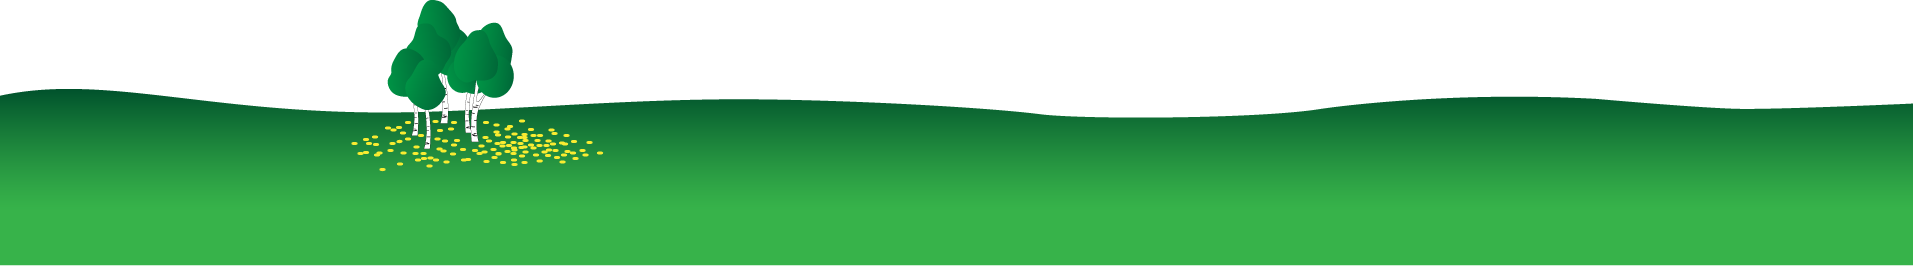
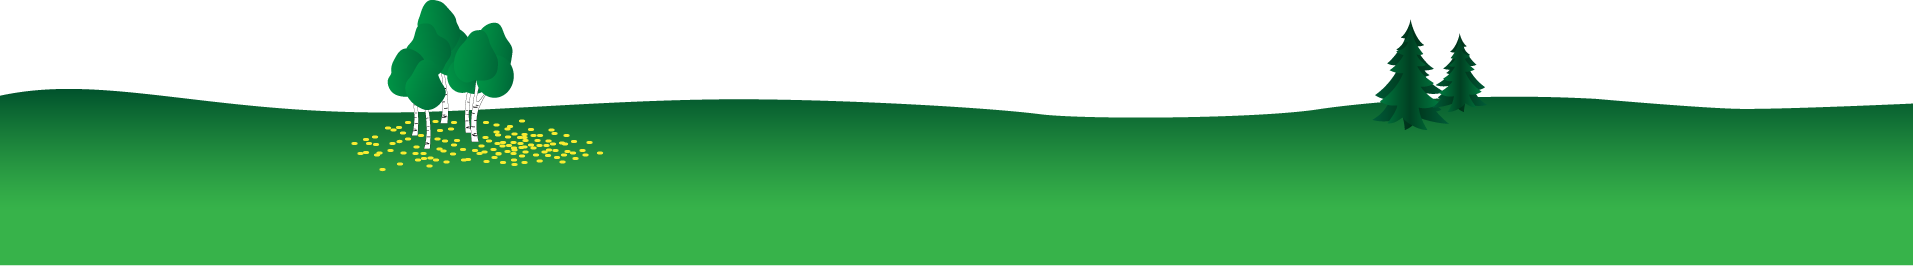
Parallax

Changed region(s): [[0.7094, 0.0902, 0.8019, 0.4812]]

diff --git a/app/assets/stylesheets/parallax.css b/app/assets/stylesheets/parallax.css
@@ -7,35 +7,59 @@ html, body {
 .big_block {
     height: 100%;
     max-height: 1204px;
-    width: 675px;
+    width: 700px;
     position: absolute;
+    padding: 125px 150px;
 }
-#after_day { left: 1366px; }
-#after_evening { left: 3407px; }
-#after_night { left: 5448px; }
+#after_day { left: 1366px; } /* day_sky.width */
+#after_evening { left: 3732px; } /* day_sky.width + big_block.width + evening_sky.width */
+#after_night { left: 6098px; } /* day_sky.width + big_block.width + evening_sky.width + big_block.width + night_sky.width */
+
+.object {
+    width: 1366px;
+    position: absolute;
+    height: 100%;
+}
+
+#clouds { background: url(/assets/01_Day_00_Clouds.png) 1200px 50% no-repeat fixed; }
+#swans { background: url(/assets/02_Evening_00_Swans.png) 5998px 50% no-repeat fixed; }
+#moon { background: url(/assets/03_Night_00_Moon.png) 5232px 50% no-repeat fixed; }
+#ufo { background: url(/assets/03_Night_00_UFO.png) 10664px 50% no-repeat fixed; }
 
 .sky {
     height: 100%;
     max-height: 1204px;
     width: 1366px;
     position: absolute;
+    -moz-background-size: auto 105%;
+    -o-background-size: auto 105%;
+    -webkit-background-size: auto 105%;
+    background-size: auto 105%;
+    background-position: 0 45%;
 }
 
 #day_sky {
     background: url(/assets/01_Day_01_Sky.png) repeat-x fixed;
-    background-position: 0 50%; 
+    filter: progid:DXImageTransform.Microsoft.AlphaImageLoader(src='assets/01_Day_01_Sky.png', sizingMethod='scale');
+    -ms-filter: "progid:DXImageTransform.Microsoft.AlphaImageLoader(src='assets/01_Day_01_Sky.png', sizingMethod='scale')";
 }
 #evening_sky {
-    background: url(/assets/02_Evening_01_Sky.png) 0 50% repeat-x fixed;
-    left: 2041px;
+    background: url(/assets/02_Evening_01_Sky.png) repeat-x fixed;
+    filter: progid:DXImageTransform.Microsoft.AlphaImageLoader(src='assets/02_Evening_01_Sky.png', sizingMethod='scale');
+    -ms-filter: "progid:DXImageTransform.Microsoft.AlphaImageLoader(src='assets/02_Evening_01_Sky.png', sizingMethod='scale')";
+    left: 2366px;
 }
 #night_sky {
-    background: url(/assets/03_Night_01_Sky.png) 0 50% repeat-x fixed;
-    left: 4082px;
+    background: url(/assets/03_Night_01_Sky.png) repeat-x fixed;
+    filter: progid:DXImageTransform.Microsoft.AlphaImageLoader(src='assets/03_Night_01_Sky.png', sizingMethod='scale');
+    -ms-filter: "progid:DXImageTransform.Microsoft.AlphaImageLoader(src='assets/03_Night_01_Sky.png', sizingMethod='scale')";
+    left: 4732px;
 }
 #morning_sky {
-    background: url(/assets/04_Morning_01_Sky.png) 0 50% repeat-x fixed;
-    left: 6123px;
+    background: url(/assets/04_Morning_01_Sky.png) repeat-x fixed;
+    filter: progid:DXImageTransform.Microsoft.AlphaImageLoader(src='assets/04_Morning_01_Sky.png', sizingMethod='scale');
+    -ms-filter: "progid:DXImageTransform.Microsoft.AlphaImageLoader(src='assets/04_Morning_01_Sky.png', sizingMethod='scale')";
+    left: 7098px;
 }
 
 .forest {
@@ -64,23 +88,23 @@ html, body {
 }
 #day_trees {
     height: 266px;
-    background: url(/assets/01_Day_03_Trees.png) 0 164px no-repeat fixed;
-    top: 164px;
+    background: url(/assets/01_Day_03_Trees.png) 0 144px no-repeat fixed;
+    /*top: 144px;*/
 }
 #evening_trees {
-    height: 391px;
-    background: url(/assets/02_Evening_03_Trees.png) 2041px 39px no-repeat fixed;
-    top: 39px;
+    height: 392px;
+    background: url(/assets/02_Evening_03_Trees.png) 2913px 18px no-repeat fixed; /* position-x = day_sky.width + big_block.width + 547px */
+    /*top: 18px;*/
 }
 #night_trees {
-    height: 404px;
-    background: url(/assets/03_Night_03_Trees.png) 5176px 26px no-repeat fixed;
-    top: 26px;
+    height: 391px;
+    background: url(/assets/03_Night_03_Trees.png) 6373px 19px no-repeat fixed; /* position-x = day_sky.width + big_block.width + 547px + evening_sky.width + big_block.width + 547px + 547px */
+    /*top: 19px;*/
 }
 #morning_trees {
-    height: 182px;
-    background: url(/assets/04_Morning_03_Trees.png) 7764px 248px no-repeat fixed;
-    top: 248px;
+    height: 280px;
+    background: url(/assets/04_Morning_03_Trees.png) 9286px 140px no-repeat fixed; /* position-x = day_sky.width + big_block.width + 547px + evening_sky.width + big_block.width + 547px + night_sky.width + big_block.width + 547px + 547px */
+    /*top: 140px;*/
 }
 
 .fore {

diff --git a/app/assets/javascripts/parallax.js b/app/assets/javascripts/parallax.js
@@ -4,11 +4,22 @@ var coords;
 var speed;
 
 function resize(){
-    if ($("#day_sky").height() < 800) {
+    if ($(window).height() < 900) {
         $("#top_info").css( "background-image", "url(/assets/Logo_small.png)" );
+        $("#clouds").css( "background-image", "url(/assets/01_Day_00_Clouds_small.png)" );
+        $("#swans").css("background-image", "url(/assets/02_Evening_00_Swans_small.png)");
+        $("#moon").css("background-image", "url(/assets/03_Night_00_Moon_small.png)");
+        $("#ufo").css("background-image", "url(/assets/03_Night_00_UFO_small.png)");
     } else {
+        $("#top_info").css( "background-image", "url(/assets/Logo.png)" );
+        $("#clouds").css( "background-image", "url(/assets/01_Day_00_Clouds.png)" );
+        $("#swans").css("background-image", "url(/assets/02_Evening_00_Swans.png)");
+        $("#moon").css("background-image", "url(/assets/03_Night_00_Moon.png)");
+        $("#ufo").css("background-image", "url(/assets/03_Night_00_UFO.png)");
     };
     $(".fore").css("top", ($(window).height() - $(".fore").height())/2);
+    console.log($("#day_fore").css("top"));
+    jQuery.each($(".trees"), function(){ $(this).css({ "bottom" : $(window).height()/2 - 30, "background-position" : ($(this).css("background-position").split(" "))[0] + " " + (parseInt($(this).css("bottom")) - $(this).height()/2) + "px" }); });
     $(".info_box").css({ "height" : $(window).height() - 90, "top" : 20 });
     $("#day_ducks").css({ "top": $(window).height() - $("#day_ducks").height(), "background-position": ($("#day_ducks").css("background-position").split(" "))[0] + " " + ($(window).height() - $("#day_ducks").height()) + "px" });
 }
@@ -26,20 +37,21 @@ $(document).ready(function(){
     $(document).bind('mousewheel', function(event, delta) {
         $("body").stop().animate( { scrollLeft: $("body").scrollLeft() + (-70 * delta) }, 200 );
     });
-    $(window).resize(function(){ 
-        resize();
-    });
+    $(window).resize(function(){ resize(); });
     $(window).scroll(function() {
-        redraw( $('#day_sky'), 0, 'left' );
+        redraw( $('#clouds'), -1200, 'left' );
+        redraw( $('#swans'), -5998, 'left' );
+        redraw( $('#moon'), -5132, 'left' );
+        redraw( $('#ufo'), -10664, 'left' );
         redraw( $('#night_sky'), 0, 'left' );
         redraw( $('#day_forest'), 0, 'left' );
         redraw( $('#evening_forest'), 0, 'left' );
         redraw( $('#night_forest'), 0, 'left' );
         redraw( $('#morning_forest'), 0, 'left' );
         redraw( $('#day_trees'), 0, 'left' );
-        redraw( $('#evening_trees'), -2041, 'left' );
-        redraw( $('#night_trees'), -5176, 'left' );
-        redraw( $('#morning_trees'), -7764, 'left' );
+        redraw( $('#evening_trees'), -2766, 'left' );
+        redraw( $('#night_trees'), -6079, 'left' );
+        redraw( $('#morning_trees'), -8992, 'left' );
         redraw( $('#day_ducks'), 800, 'right' );
         /*if ($(window).scrollLeft() > 125 && $(window).scrollLeft() < 675) {
             $('#day_info').fadeIn();
